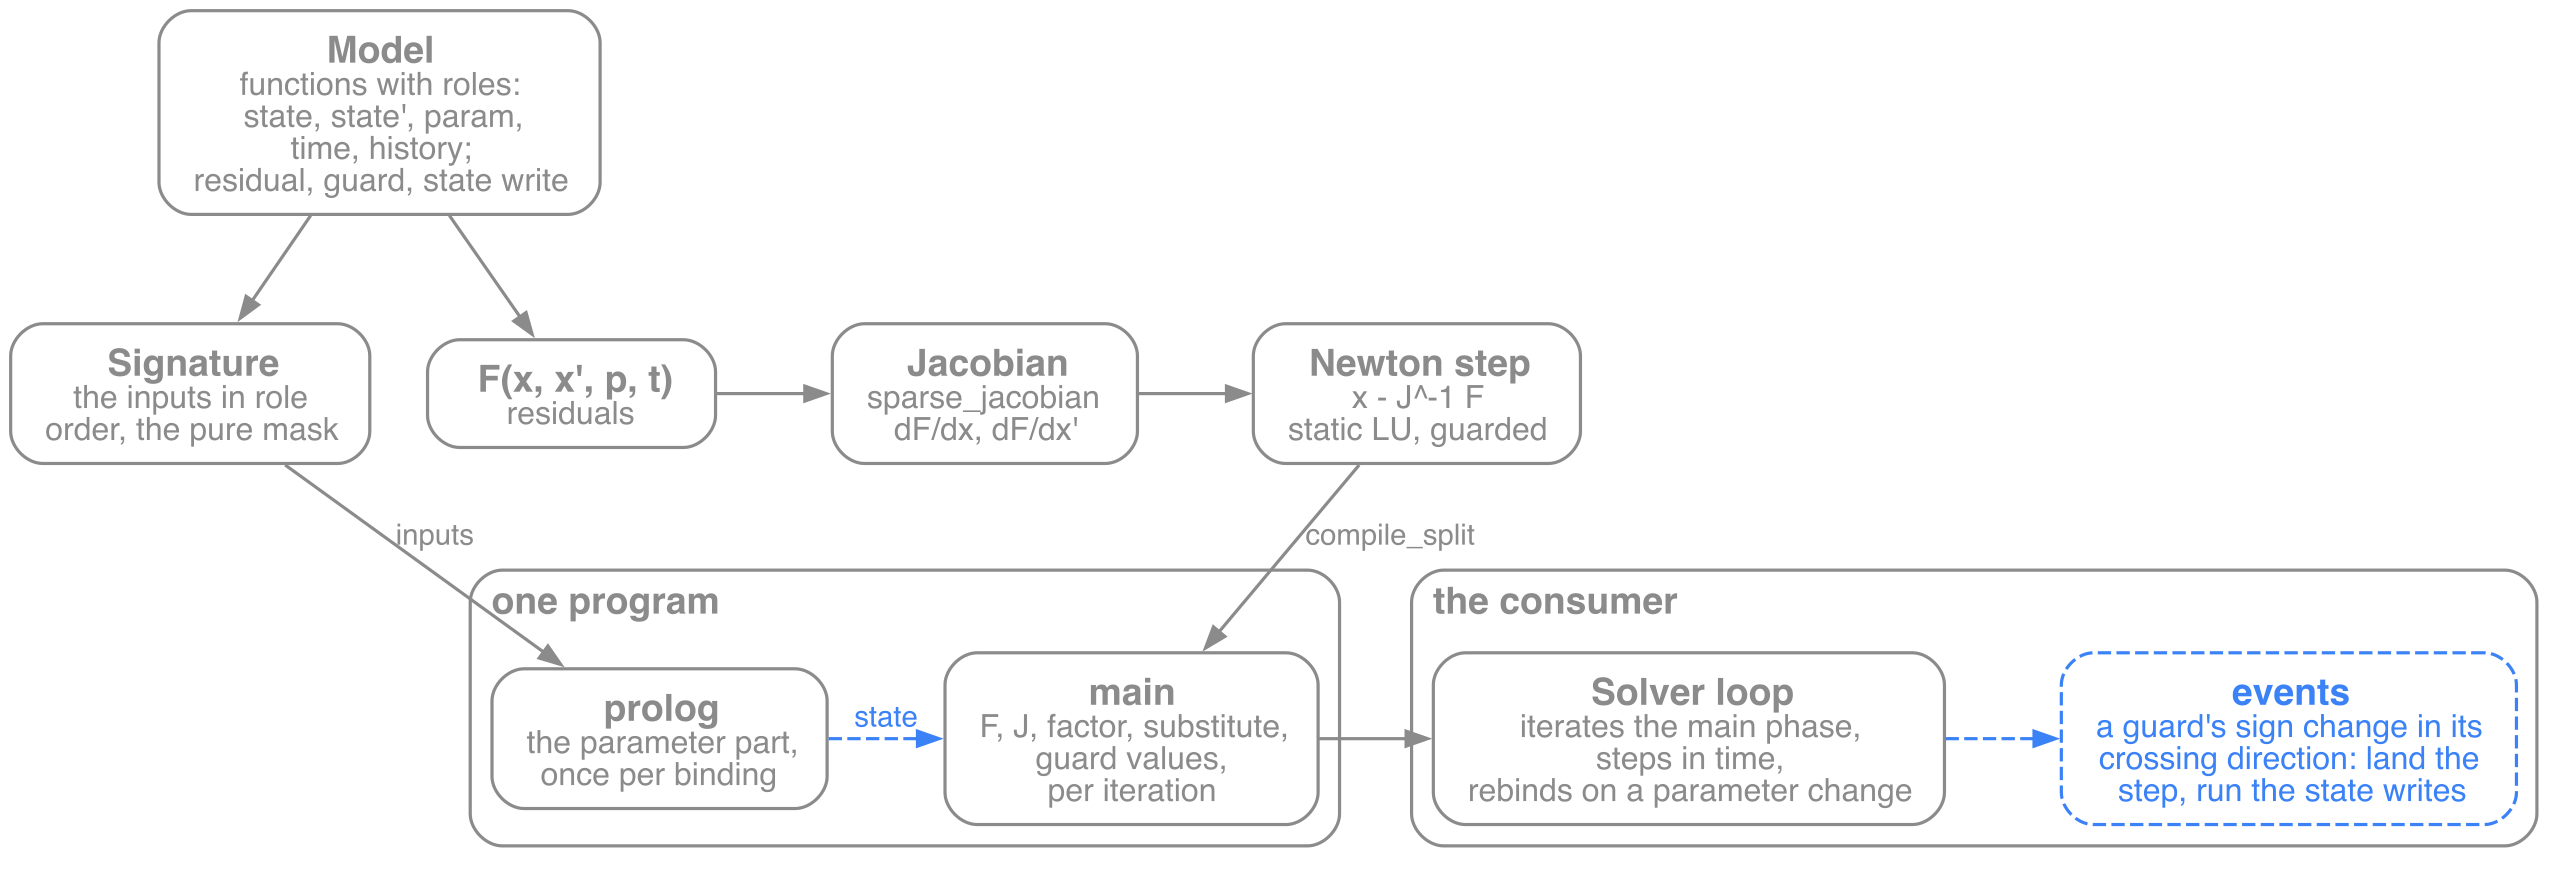
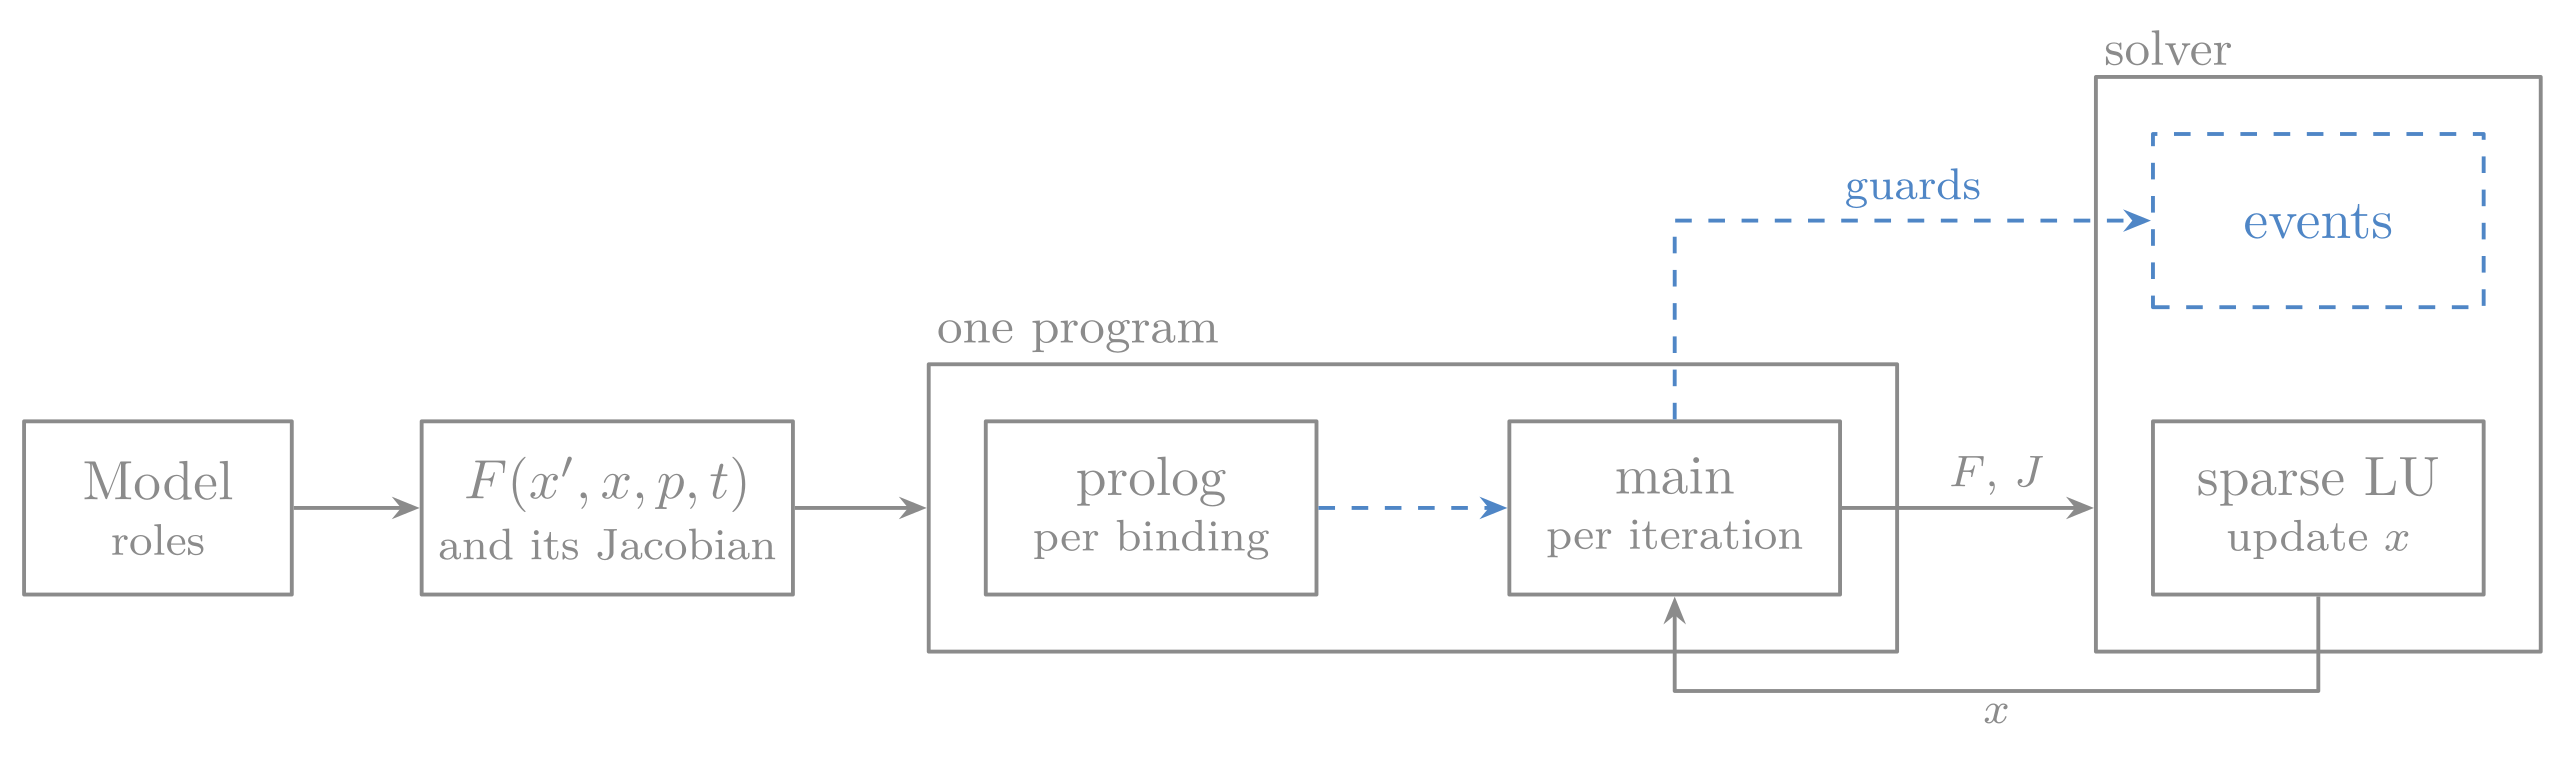
Update SANE and RSDAG entries: current diagrams, shorter text, SANE public

diff --git a/src/lib/components/CodeRainPage.svelte b/src/lib/components/CodeRainPage.svelte
@@ -62,7 +62,7 @@
 		'rslab-pardiso': { name: 'vs MKL PARDISO', url: 'https://github.com/milanofthe/rslab', screenshot: '/images/rslab-pardiso.png', color: 'rslab', themeParam: false, fit: 'contain', background: '#08080c' },
 		'rslab-memory': { name: 'Memory plan', url: 'https://github.com/milanofthe/rslab', screenshot: '/images/rslab-memory-plan.png', color: 'rslab', themeParam: false, fit: 'contain', background: '#08080c' },
 		'rsdag-tape': { name: 'A diode as a tape', url: 'https://github.com/milanofthe/rsdag', screenshot: '/images/rsdag-tape.png', color: 'rslab', themeParam: false, fit: 'contain', background: '#08080c' },
-		'rsdag-solve': { name: 'Sparse LU as a program vs KLU', url: 'https://github.com/milanofthe/rsdag', screenshot: '/images/rsdag-solve.png', color: 'rslab', themeParam: false, fit: 'contain', background: '#08080c' },
+		'rsdag-bodies': { name: 'Model bodies as a tape', url: 'https://github.com/milanofthe/rsdag', screenshot: '/images/rsdag-bodies.png', color: 'rslab', themeParam: false, fit: 'contain', background: '#08080c' },
 		'thesisos-landing': { name: 'Landing', url: 'https://thesisos.io', screenshot: '/screenshots/thesisos-landing.png', color: 'thesisos', themeParam: false },
 		'thesisos-graph': { name: 'Citation Graph', url: 'https://thesisos.io/graph?root=cb35ff8e-d0f5-437c-9528-89307638622a', screenshot: '/screenshots/thesisos-graph.png', color: 'thesisos', themeParam: false },
 		'whatsmytraffic-landing': { name: 'WhatsMyTraffic', url: 'https://whatsmytraffic.com', screenshot: '/screenshots/whatsmytraffic-landing.png', color: 'whatsmytraffic', themeParam: false },

diff --git a/src/lib/layout/contentRegions.ts b/src/lib/layout/contentRegions.ts
@@ -156,7 +156,7 @@ const PROJECT_EMBEDS: Record<string, ContentRegion> = {
 		// Shares the rslab brand color.
 		type: 'embedded', lines: [], frameColor: 'rslab',
 		embeddedRows: 14, embeddedCols: 54, align: 'center',
-		tiles: [{ id: 'rsdag-tape', label: 'Prolog and main' }, { id: 'rsdag-solve', label: 'vs KLU' }]
+		tiles: [{ id: 'rsdag-tape', label: 'Prolog and main' }, { id: 'rsdag-bodies', label: 'Model bodies' }]
 	},
 	thesisos: {
 		type: 'embedded', lines: [], frameColor: 'thesisos',

diff --git a/src/content/stack/sane.md b/src/content/stack/sane.md
@@ -5,16 +5,16 @@ tagline: Symbolic Analog Network Engine. Symbolic and numeric circuit analysis.
 group: circuits
 order: 4
 site: sane.milanrother.com|https://sane.milanrother.com
-license: core engine in early access / free for academia / commercial licenses
+repo: github.com/milanofthe/sane|https://github.com/milanofthe/sane
+license: PolyForm Noncommercial, free for academia / commercial licenses
 cta1: [ Try it live -> ]|https://sane.milanrother.com
-cta2: [ Request early access -> ]|mailto:info@milanrother.com?subject=SANE%20early%20access
+cta2: [ Request a commercial license -> ]|mailto:info@milanrother.com?subject=SANE%20licensing
 ---
 
 SANE extracts the differential-algebraic system F(x, x', t) = 0 from a circuit
-and analyzes it symbolically and numerically: DC operating point, transient,
-small-signal AC, poles/zeros, noise, harmonic balance, and exact first- and
-second-order parameter sensitivities for each of those, all by automatic
-differentiation of one hash-consed symbolic DAG.
+and analyzes it symbolically and numerically: DC, transient, small-signal AC,
+poles/zeros, noise, harmonic balance, and exact parameter sensitivities for
+each, all by automatic differentiation of one symbolic DAG.
 
 ```python
 import numpy as np
@@ -34,86 +34,57 @@ sens = op.sensitivity("out")            # exact dy/dp, one adjoint solve
 sens.ranked()                           # parameters by relative sensitivity
 ```
 
-Results are labeled by node and parameter name, not positional vectors. A
-result object keeps its solved state, so derived analyses need no re-solve,
-and parameters read and write hierarchically: model.X1.R2 = 1e3.
+Results are labeled by name and keep their solved state, and parameters read
+and write hierarchically: model.X1.R2 = 1e3.
 
 ## Frontends and devices
 
 ![SANE|right|46x14](/screenshots/sane-app.png)
 
-The SPICE frontend parses .param expressions, .subckt hierarchy, .model cards,
-and the standard source waveforms (SIN, PULSE, EXP, PWL). Devices cover the
-classic set: diodes, MOSFETs, BJTs (Gummel-Poon), JFETs, MESFETs, controlled
-sources and switches, behavioral sources, and transmission lines. The web app
-at sane.milanrother.com runs the full engine in the browser.
+The SPICE frontend reads parameters, subcircuits, model cards and the
+standard source waveforms, with the classic device set from diodes to
+transmission lines. The web app runs the full engine in the browser.
 
 ![Schematic, netlist and graph|left|46x14](/images/sane-twin-t.png)
 
-Schematic, netlist and the graph the engine actually solves are three views of
-one circuit, live next to each other. Here a twin-T notch filter: seven
-elements, small enough that the whole DAG fits on screen next to the drawing
-it came from.
+Schematic, netlist and the graph the engine solves are three live views of
+one circuit, here a twin-T notch filter.
 
 ![Symbolic graph|right|46x14](/screenshots/sane-graph.png)
 
-Compact models go the same way. The usual route into a simulator is an OSDI
-binary compiled from the Verilog-A source, which is fast but opaque to
-everything upstream of it. SANE instead lowers the Verilog-A onto the same
-DAG, with no OSDI binary and no generated code. This costs some extra work at
-model load, but in return every model parameter stays exposed to the
-autodiff, even in harmonic balance. Temperature is a first-class symbolic global, so .temp
-sweeps are physical and d(metric)/dT is exact. Noise sources (thermal, shot,
-flicker, Verilog-A noise) are summed in one registry.
+Compact models usually enter a simulator as compiled OSDI binaries, opaque
+to everything upstream. SANE lowers the Verilog-A onto the same DAG instead,
+so every model parameter stays exposed to the autodiff, temperature
+included.
 
 ![Common-emitter stage, full graph|left|46x14](/images/sane-common-emitter.png)
 
-A common-emitter stage is one transistor and seven passives, and the
-Gummel-Poon model of that single BJT is most of the graph shown here. Every
-node in it is differentiable, and every parameter of the compact model is
-still a symbol the sensitivity analysis can reach.
+In a common-emitter stage, the Gummel-Poon model of the single BJT is most
+of the graph.
 
 ## The engine
 
-Rust core on [RSDAG](/stack/rsdag/): hash-consed symbolic DAG, autodiff, and
-tapes that run interpreted or as native code RSDAG emits itself. Sparse LU as
-an RSDAG program for circuit-shaped systems, and threaded through
-[RSLAB](/stack/rslab/) for the rest. Python binding via PyO3, or embed the
-whole engine in Rust with no Python at all.
+A Rust core on [RSDAG](/stack/rsdag/), with tapes run interpreted or as
+native code. Subcircuits are extracted once per definition, each compact
+model body is compiled once for all its instances, and the sparse systems
+go through [RSLAB](/stack/rslab/). Python via PyO3, or Rust alone.
 
 ## Validation
 
-Every claim is checked against independent references on real circuits: more
-than sixty decks spanning RC networks, textbook transistor stages, the uA741,
-production SKY130 AnalogGym operational amplifiers, and IBM power grids past
-100k nodes. DC operating points agree with ngspice within a millivolt across
-the corpus, harmonic balance is checked against Xyce, and the symbolic
-transfer functions against Lcapy. Cold DC solves run in 0.015 to 2.5 ms at
-the raw engine call.
+More than sixty decks, from RC networks to the uA741, the SKY130 AnalogGym
+amplifiers and power grids past 100k nodes, checked against ngspice, Xyce
+and Lcapy. The transient runs the VACASK benchmark suite, up to the c6288
+multiplier with 10112 PSP103 transistors.
 
 ## History
 
-SANE is the return to my RFIC EDA roots, and the third time I have written
-this tool. The first was MiCir in 2019, a symbolic network analysis library
-built on nothing but Python's math module: my own matrix class, my own complex
-arithmetic, symbolic element types in s, netlists in and Cauer ladders out.
-The second was the exact parameter sensitivities in my master's thesis, where
-the first and second partial derivatives of RLCk transfer functions are read
-analytically off the block structure of the MNA matrices. The autodiff over
-the DAG is the general version of that.
+SANE is the return to my RFIC EDA roots and the third time I have written
+this tool: MiCir in 2019, a symbolic network analysis library on nothing but
+Python's math module, then the exact sensitivities of my master's thesis,
+read off the block structure of the MNA matrices. It also builds on reviving
+Analog Insydes with its inventor Ralf Sommer from December 2024 on.
 
-It also builds on work I did together with Ralf Sommer, the inventor of
-Analog Insydes, on reviving that tool from December 2024 on.
-
-The direct trigger came from the other end of the stack:
-[FastSim](/stack/fastsim/) had just been built on SSA compute graphs, Python
-callbacks traced into a flat tape and differentiated symbolically, and
-carrying that representation over to circuits looked like the obvious next
-step, with Analog Insydes in the back of my mind throughout. Matt
-Keeter's writing on SSA graphs for implicit surfaces was the other half of the
-push: the same representation, an entirely different field.
-
-In June 2026 I picked the ideas up on my own stack. The first two months
-produced the SPICE parser, the symbolic DAG engine, the full set of analyses,
-and the Verilog-A frontend. The web app at sane.milanrother.com is public;
-the core engine is in early access.
+The trigger was [FastSim](/stack/fastsim/) and its SSA compute graphs;
+carrying them over to circuits was the obvious next step, and Matt Keeter's
+writing on SSA graphs for implicit surfaces the other half of the push. I
+started in June 2026.

diff --git a/src/content/stack/rsdag.md b/src/content/stack/rsdag.md
@@ -10,94 +10,66 @@ cta1: [ View on GitHub -> ]|https://github.com/milanofthe/rsdag
 cta2: [ Request a commercial license -> ]|mailto:info@milanrother.com?subject=RSDAG%20licensing
 ---
 
-RSDAG traces ODE and DAE systems into an op-level expression graph, runs
-compiler-style optimizations over it, and emits machine code directly. The
-graph already fixes the ops, their order and the memory layout, so no
-external compiler sits in the loop. The same program also runs interpreted,
-as a flat tape. CasADi and JAX build on the same idea. RSDAG is narrower on
-purpose: it is a backend for simulators, with the interfaces a solver needs
-in its inner loop and little else.
+RSDAG traces ODE and DAE systems into an op-level expression graph,
+optimizes it like a compiler and emits machine code, or runs the same program
+as an interpreted tape. The idea is the one of CasADi and JAX, narrower on
+purpose: a backend for simulators.
 
 ## From expression to tape
 
 ![Pipeline|center|114x24|contain](/images/rsdag-pipeline.png)
 
-Nodes are hash-consed, so a subexpression shared by a residual and its
-Jacobian is one node, and the constructors fold constants and apply the
-algebraic identities while the graph is built. Differentiation, forward and
-reverse, writes into the same graph. The tape compiler lowers a set of roots
-into instructions, schedules them for register pressure and gives them slots
-by lifetime. Row dots against one vector become a matrix-vector kernel,
-against several vectors a matrix product, and a dense system a pivoting
-solve. Calls of one model body over many instances become one batched call.
+Nodes are hash-consed, so a residual and its Jacobian share their common
+subexpressions, and constants fold while the graph is built. Differentiation
+writes into the same graph. The tape compiler schedules for register
+pressure, turns row dots into matrix kernels, and batches the calls of one
+model body over all its instances; a body that calls others compiles once,
+as a template.
 
 ## Prolog and main
 
 ![A diode as a tape|right|44x22|contain](/images/rsdag-tape.png)
 
-Parameters are part of the graph. Everything that depends on them alone goes
-into a prolog that runs once per parameter binding, and the main phase runs
-per iteration and reads the prolog's results from a state buffer. Here a
-diode current and its derivative: 1/(n vt) is the prolog, the dashed edges
-are the state crossing into the main phase, and the exponential is guarded
-against overflow.
+Whatever depends on parameters alone becomes a prolog that runs once per
+binding, and the main phase runs per iteration. In the diode here, 1/(n vt)
+is the prolog. Selects specialize the same way: a tape records the arms
+taken and drops the branches, with guards that hand back to the full tape
+when the region changes.
 
-Choices specialize the same way. A tape records which arm of each select it
-took, and a specialized tape runs that region without the branches, with the
-conditions left in as guards. When a guard fails, the region changed and the
-full tape takes over again.
+![Model bodies as a tape|left|46x23|contain](/images/rsdag-bodies.png)
+
+A model body called from many instances splits the same way: its prolog
+runs once per instance, its main phase as one batched call over all of them.
 
 ## Native code
 
 ![Interpreter, specialization, native code|right|50x17|contain](/images/rsdag-adaptive.png)
 
-The native backend writes the tape's instruction sequence as machine code
-for AArch64 and x86-64, straight from the tape. A program is served per
-call: by the interpreter from the first call, by a specialized tape once a
-region is stable, by native code once the background compile is done. All
-backends compute the same IEEE operation sequence, no fast-math and no
-fused multiply-add, so a switch in the middle of a solve changes no bits.
-The test suites check that on random programs over the whole op vocabulary.
+The native backend writes the tape as AArch64 or x86-64 machine code. The
+interpreter serves from the first call, a specialized tape once a region is
+stable, native code once the background compile is done, all on the same
+IEEE operation sequence, so no switch changes a bit. Independent calls run
+as parallel stages, with the same results for any number of threads.
 
 ## The solver in the graph
 
 ![Solver path|center|114x23|contain](/images/rsdag-solver-path.png)
 
-Roles say what each input of a model is: state, derivative, parameter, time,
-delay history, or a guard with its crossing direction. A signature orders
-them into the programs a solver drives. From the residuals and a sparse
-Jacobian, a guarded Newton step compiles into one program. The solver keeps
-the loop, the step control and the event policy, and evaluates into buffers
-it owns, without an allocation in the inner loop.
-
-![Sparse LU as a program|left|46x22|contain](/images/rsdag-lu.png)
-
-A sparse LU on a known pattern lowers into ops as well: block triangular
-form, a minimum-degree ordering, and a static LU whose pivots are fixed at
-build time and guarded. With the matrix entries as parameters, the
-factorization is the prolog and the substitution the main phase. When a
-guard fails, the pivots are taken from the current values and the program is
-rebuilt. Wide panels go to dense kernels.
-
-![Sparse solve against KLU|center|90x16|contain](/images/rsdag-solve-bench.png)
-
-This pays off on sparse, circuit-shaped patterns, where the whole
-factorization is a few dozen ops per unknown. On a mesh the fill grows with
-size and a library like [RSLAB](/stack/rslab/) wins. The plot shows where
-the line runs, against the KLU path of RSLAB.
+Roles say what each input is, state, derivative, parameter, time, delay or
+guard, and a signature orders them into the programs a solver drives: the
+residuals and their sparse Jacobian in one program, the guards reporting the
+events. The solver keeps the loop and the step control, factors the
+Jacobian with a sparse LU library such as [RSLAB](/stack/rslab/), and
+evaluates into its own buffers.
 
 ## History
 
 Building [FastSim](/stack/fastsim/) earlier this year led me down a rabbit
-hole of computational graphs and expression trees. Having the ODE or DAE
-available symbolically at the op level gives a solver a lot: analytical
-Jacobians, the sparsity pattern, stiffness and nonlinearity detection, which
-is also how a system gets partitioned for harmonic balance. It is a handy
-intermediate representation, and it puts the op count next to the modeling
-question: in the end it is all memory and ops. So why stop at the model?
-Lower the solver into the graph too, and evaluating the graph gives the
-solution, or brings you close to it when solving iteratively.
+hole of computational graphs. An ODE or DAE at the op level gives a solver a
+lot: analytical Jacobians, the sparsity pattern, stiffness and nonlinearity
+detection. It also puts the op count next to the modeling question, since in
+the end it is all memory and ops. So why stop at the model? Lower the solver
+into the graph too, and evaluating the graph gives the solution.
 
 In September 2026 I took the expression graph backends of FastSim and
-[SANE](/stack/sane/) out into a library of their own. SANE runs on it now:
-its hot tapes, its compact model bodies and its sparse LU are RSDAG programs.
+[SANE](/stack/sane/) out into a library of their own.
